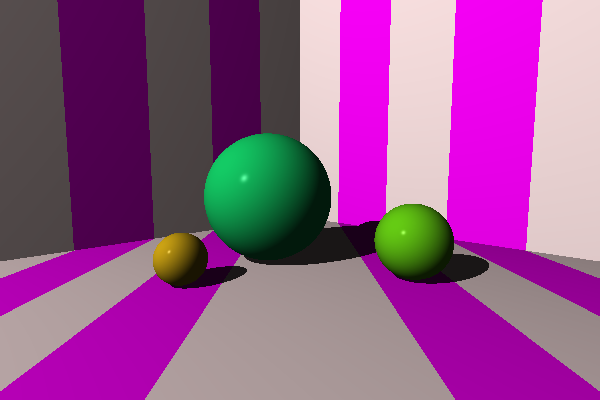
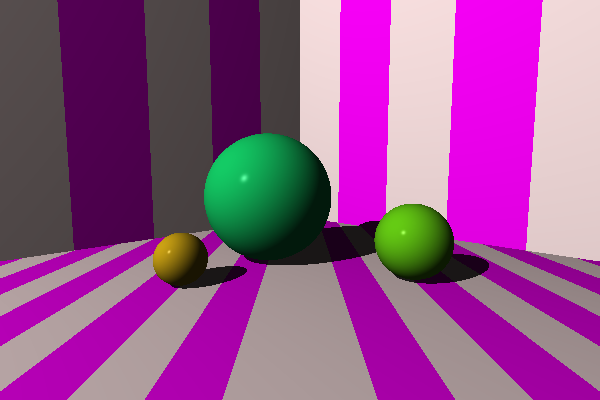
Chapter 10. Patterns - constant world space stripes - stripe patterns are transformable.

diff --git a/ray_tracer/src/material/pattern.rs b/ray_tracer/src/material/pattern.rs
@@ -1,3 +1,4 @@
+use crate::Transform::Transform;
 use crate::material::pattern::Pattern::Solid;
 use math::tuple::color::{Color, WHITE};
 use math::tuple::point::Point;
@@ -5,7 +6,7 @@ use math::tuple::point::Point;
 #[derive(Debug, PartialEq)]
 pub enum Pattern {
     Solid(Color),
-    Stripe(Color, Color),
+    Stripe(Color, Color, Transform),
 }
 
 impl Default for Pattern {
@@ -15,15 +16,12 @@ impl Default for Pattern {
 }
 
 impl Pattern {
-    pub(crate) fn color_at(&self, point: &Point) -> Color {
+    pub(crate) fn color_at(&self, point: Point) -> Color {
         match self {
             Solid(c) => c,
-            Pattern::Stripe(a, b) => {
-                if point.x as i32 % 2 == 0 {
-                    a
-                } else {
-                    b
-                }
+            Pattern::Stripe(a, b, transform) => {
+                let point = transform.world_point_to_object_point(point);
+                if point.x as i32 % 2 == 0 { a } else { b }
             }
         }
         .clone()
@@ -34,24 +32,38 @@ impl Pattern {
 mod stripe_pattern_tests {
     use super::*;
     use crate::material::pattern::Pattern::Stripe;
-    use math::point;
+    use math::matrix::matrix_4x4::Matrix4x4;
     use math::tuple::color::BLACK;
+    use math::{degrees, point};
 
     #[test]
     fn a_stripe_pattern_is_constant_in_y_and_z() {
-        let pattern = Stripe(*WHITE, *BLACK);
-        assert_eq!(pattern.color_at(&point!(0, 0, 0)), *WHITE);
-        assert_eq!(pattern.color_at(&point!(0, 1, 0)), *WHITE);
-        assert_eq!(pattern.color_at(&point!(0, 0, 1)), *WHITE);
-        assert_eq!(pattern.color_at(&point!(0, 1, 1)), *WHITE);
+        let pattern = Stripe(*WHITE, *BLACK, Transform::identity());
+        assert_eq!(pattern.color_at(point!(0, 0, 0)), *WHITE);
+        assert_eq!(pattern.color_at(point!(0, 1, 0)), *WHITE);
+        assert_eq!(pattern.color_at(point!(0, 0, 1)), *WHITE);
+        assert_eq!(pattern.color_at(point!(0, 1, 1)), *WHITE);
     }
 
     #[test]
     fn a_stripe_pattern_alternates_in_x() {
-        let pattern = Stripe(*WHITE, *BLACK);
-        assert_eq!(pattern.color_at(&point!(0, 0, 0)), *WHITE);
-        assert_eq!(pattern.color_at(&point!(1, 0, 0)), *BLACK);
-        assert_eq!(pattern.color_at(&point!(2, 0, 1)), *WHITE);
-        assert_eq!(pattern.color_at(&point!(3, 0, 1)), *BLACK);
+        let pattern = Stripe(*WHITE, *BLACK, Transform::identity());
+        assert_eq!(pattern.color_at(point!(0, 0, 0)), *WHITE);
+        assert_eq!(pattern.color_at(point!(1, 0, 0)), *BLACK);
+        assert_eq!(pattern.color_at(point!(2, 0, 1)), *WHITE);
+        assert_eq!(pattern.color_at(point!(3, 0, 1)), *BLACK);
+    }
+
+    #[test]
+    fn a_stripe_pattern_alternates_in_y_after_rotation() {
+        let pattern = Stripe(
+            *WHITE,
+            *BLACK,
+            Transform::new(Matrix4x4::rotation_z(degrees!(90))),
+        );
+        assert_eq!(pattern.color_at(point!(0, 0, 0)), *WHITE);
+        assert_eq!(pattern.color_at(point!(0, 1, 0)), *BLACK);
+        assert_eq!(pattern.color_at(point!(0, 2, 1)), *WHITE);
+        assert_eq!(pattern.color_at(point!(0, 3, 1)), *BLACK);
     }
 }

diff --git a/demo/src/chapter7_scene.rs b/demo/src/chapter7_scene.rs
@@ -2,6 +2,7 @@ use crate::Material;
 use math::matrix::matrix_4x4::Matrix4x4;
 use math::tuple::color::Color;
 use math::{Angle, color, degrees, point, vector};
+use ray_tracer::Transform::Transform;
 use ray_tracer::camera::Camera;
 use ray_tracer::canvas::Canvas;
 use ray_tracer::lighting::PointLight;
@@ -33,7 +34,11 @@ pub fn ray_trace_end_chapter_7_scene<C: Canvas<Color>>(canvas: &mut C) {
 fn floor() -> Shape {
     let mut floor = Shape::new_plane_transformed(Matrix4x4::scale(10., 0.01, 10.));
     let mut material = Material::default();
-    material.pattern = Pattern::Stripe(color!(1, 0.9, 0.9), color!(1, 0, 1));
+    material.pattern = Pattern::Stripe(
+        color!(1, 0.9, 0.9),
+        color!(1, 0, 1),
+        Transform::new(Matrix4x4::scale(0.5, 1., 1.)),
+    );
     material.specular = 0.;
     floor.material = material;
     floor
@@ -47,7 +52,7 @@ fn wall(y: Angle) -> Shape {
             .pre_scale(10., 0.01, 10.),
     );
     let mut material = Material::default();
-    material.pattern = Pattern::Stripe(color!(1, 0.9, 0.9), color!(1, 0, 1));
+    material.pattern = Pattern::Stripe(color!(1, 0.9, 0.9), color!(1, 0, 1), Transform::identity());
     material.specular = 0.;
     wall.material = material;
     wall

diff --git a/ray_tracer/src/lighting/mod.rs b/ray_tracer/src/lighting/mod.rs
@@ -26,7 +26,7 @@ impl Material {
         normal: Normal,
         shadow_factor: f32,
     ) -> Color {
-        let surface_color = self.pattern.color_at(&point);
+        let surface_color = self.pattern.color_at(point);
 
         // Combine surface and light color
         let effective_color = surface_color * light.color;
@@ -150,6 +150,7 @@ mod lighting_tests {
 #[cfg(test)]
 mod non_solid_pattern_tests {
     use super::*;
+    use crate::Transform::Transform;
     use crate::material::pattern::Pattern;
     use math::{point, vector};
 
@@ -166,7 +167,7 @@ mod non_solid_pattern_tests {
         let a = color!(1, 1, 0);
         let b = color!(0, 0, 1);
         assert_ne!(a, b);
-        material.pattern = Pattern::Stripe(a, b);
+        material.pattern = Pattern::Stripe(a, b, Transform::identity());
         assert_eq!(
             a,
             material.light(&light, point!(0.9, 0, 0), eye, normal, 0.)

diff --git a/ray_tracer/src/Transform.rs b/ray_tracer/src/Transform.rs
@@ -15,21 +15,22 @@ impl Transform {
         let world_normal = self.world_to_object_transform.transpose() * object_normal;
         world_normal.force_vector().normalize()
     }
-}
-
-impl Transform {
     pub(crate) fn world_ray_to_object_ray(&self, world_ray: Ray) -> Ray {
         self.world_to_object_transform * world_ray
     }
-}
-
-impl Transform {
     pub(crate) fn world_point_to_object_point(&self, point: Point) -> Point {
         (self.world_to_object_transform * point).try_into().unwrap()
     }
 }
 
 impl Transform {
+    pub fn identity() -> Self {
+        Self {
+            object_to_world_transform: Matrix4x4::identity(),
+            world_to_object_transform: Matrix4x4::identity(),
+        }
+    }
+
     pub fn new(object_to_world_matrix: Matrix4x4) -> Self {
         Self {
             object_to_world_transform: object_to_world_matrix,

diff --git a/ray_tracer/src/lib.rs b/ray_tracer/src/lib.rs
@@ -1,4 +1,4 @@
-mod Transform;
+pub mod Transform;
 pub mod camera;
 pub mod canvas;
 pub mod intersection;
